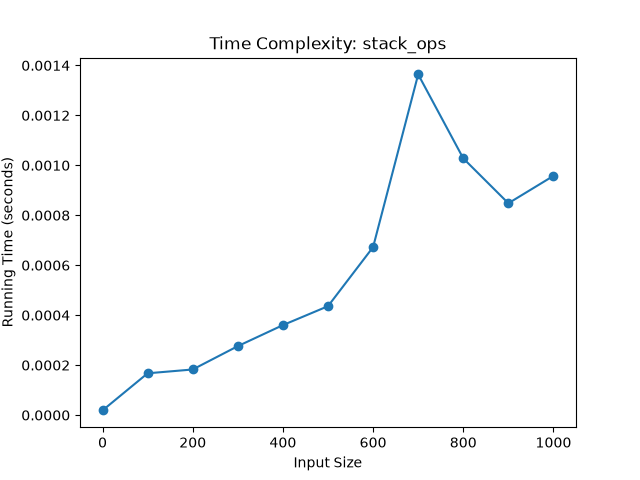
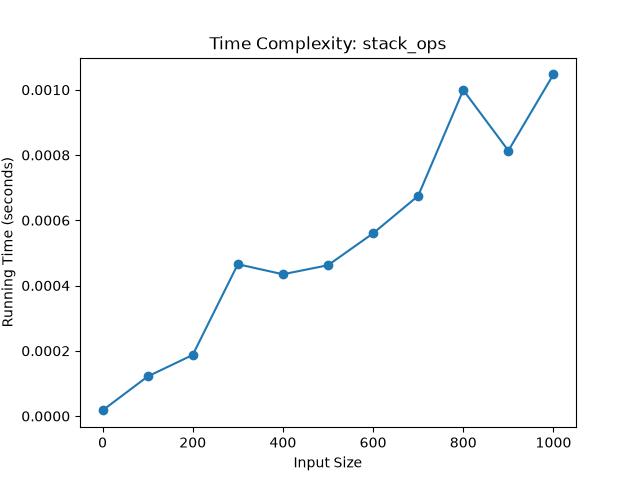
Complete Flask SQLAlchemy integration and save_analysis endpoint

diff --git a/app.py b/app.py
@@ -5,12 +5,25 @@ import matplotlib
 matplotlib.use('Agg')
 import matplotlib.pyplot as plt
 from flask import Flask, jsonify, request
+from flask_sqlalchemy import SQLAlchemy
 from visualizer import linear_search, bubble_sort, binary_search, nested_loops, nested_loops2, test_stack_operations, test_queue_operations
- 
 
 app = Flask(__name__)
+app.config['SQLALCHEMY_DATABASE_URI'] = 'sqlite:///analysis.db'
+app.config['SQLALCHEMY_TRACK_MODIFICATIONS'] = False
+db = SQLAlchemy(app)
 
-ALGORITHMS ={
+class AnalysisRecord(db.Model):
+    id = db.Column(db.Integer, primary_key=True)
+    algorithm = db.Column(db.String(50), nullable=False)
+    n_max = db.Column(db.Integer, nullable=False)
+    step = db.Column(db.Integer, nullable=False)
+    status = db.Column(db.String(20), default="success")
+
+with app.app_context():
+    db.create_all()
+
+ALGORITHMS = {
     'linear_search': linear_search,
     'bubble_sort': bubble_sort,
     'binary_search': binary_search,
@@ -47,9 +60,6 @@ def analyze():
     ax.set_ylabel('Running Time (seconds)')
     ax.set_title(f'Time Complexity: {algo_name}')
 
-    plot_path = f'complexity_plot_{algo_name}.png'
-    plt.savefig(plot_path)
-
     buf = io.BytesIO()
     plt.savefig(buf, format='png')
     buf.seek(0)
@@ -62,6 +72,33 @@ def analyze():
         'step': step,
         'image_base64': image_base64
     })
+
+@app.route('/api/save_analysis', methods=['POST'])
+def save_analysis():
+    req_data = request.get_json()
+    
+    if not req_data:
+        return jsonify({"error": "Invalid JSON or missing body"}), 400
+    
+    algo_name = req_data.get('algorithm', 'unknown')
+    n_max = req_data.get('n_max', 0)
+    step = req_data.get('step', 0)
+    
+    new_record = AnalysisRecord(
+        algorithm=algo_name,
+        n_max=n_max,
+        step=step,
+        status="success"
+    )
+    
+    db.session.add(new_record)
+    db.session.commit()
+    
+    return jsonify({
+        "status": "success",
+        "message": "Analysis data successfully saved to the database via SQLAlchemy!",
+        "record_id": new_record.id
+    }), 201
 
 if __name__ == '__main__':
     app.run(host='0.0.0.0', port=8000, debug=True)

diff --git a/test_post.py b/test_post.py
@@ -1,0 +1,13 @@
+import requests
+
+url = "http://localhost:8000/api/save_analysis"
+headers = {"Authorization": "Bearer test-token"}
+payload = {
+    "algorithm": "linear_search",
+    "n_max": 100,
+    "step": 10
+}
+
+response = requests.post(url, json=payload, headers=headers)
+print("Status Code:", response.status_code)
+print("Response JSON:", response.json())
